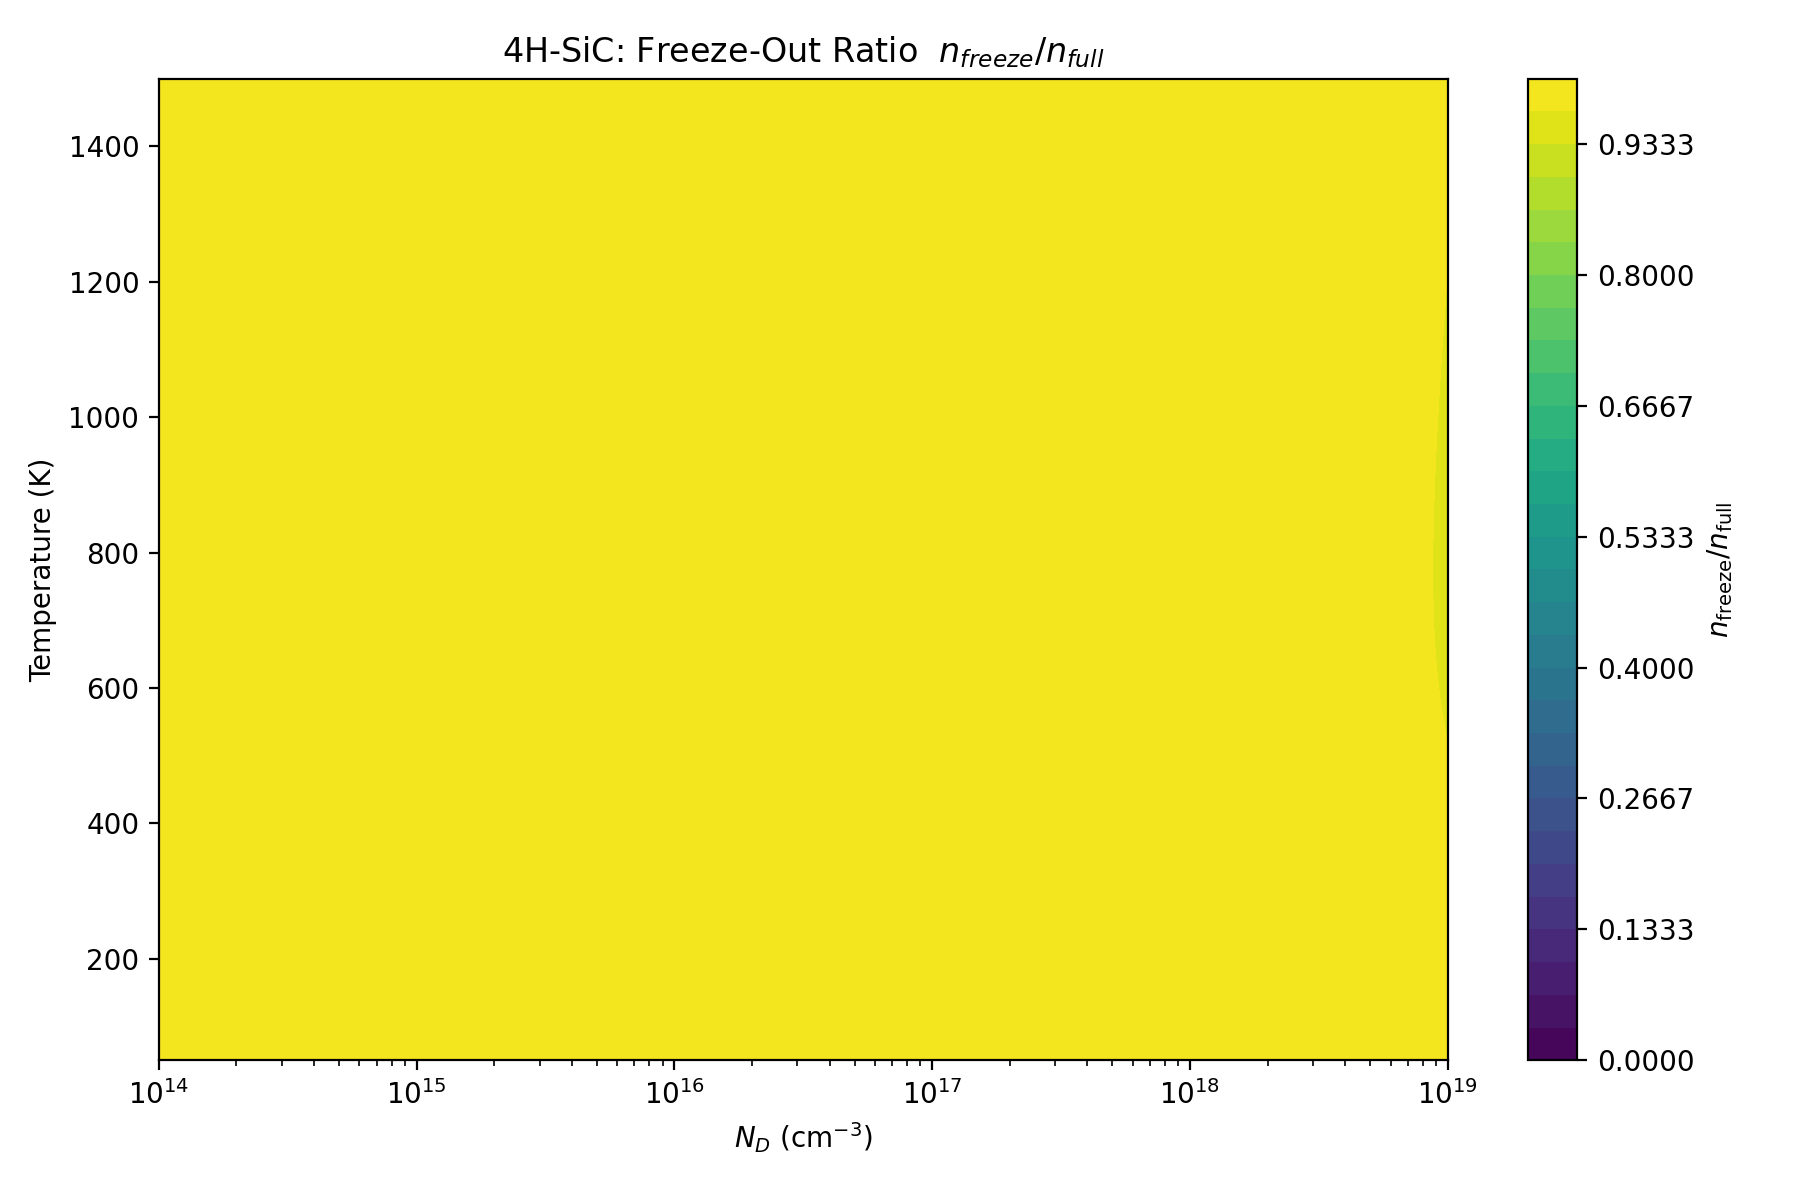
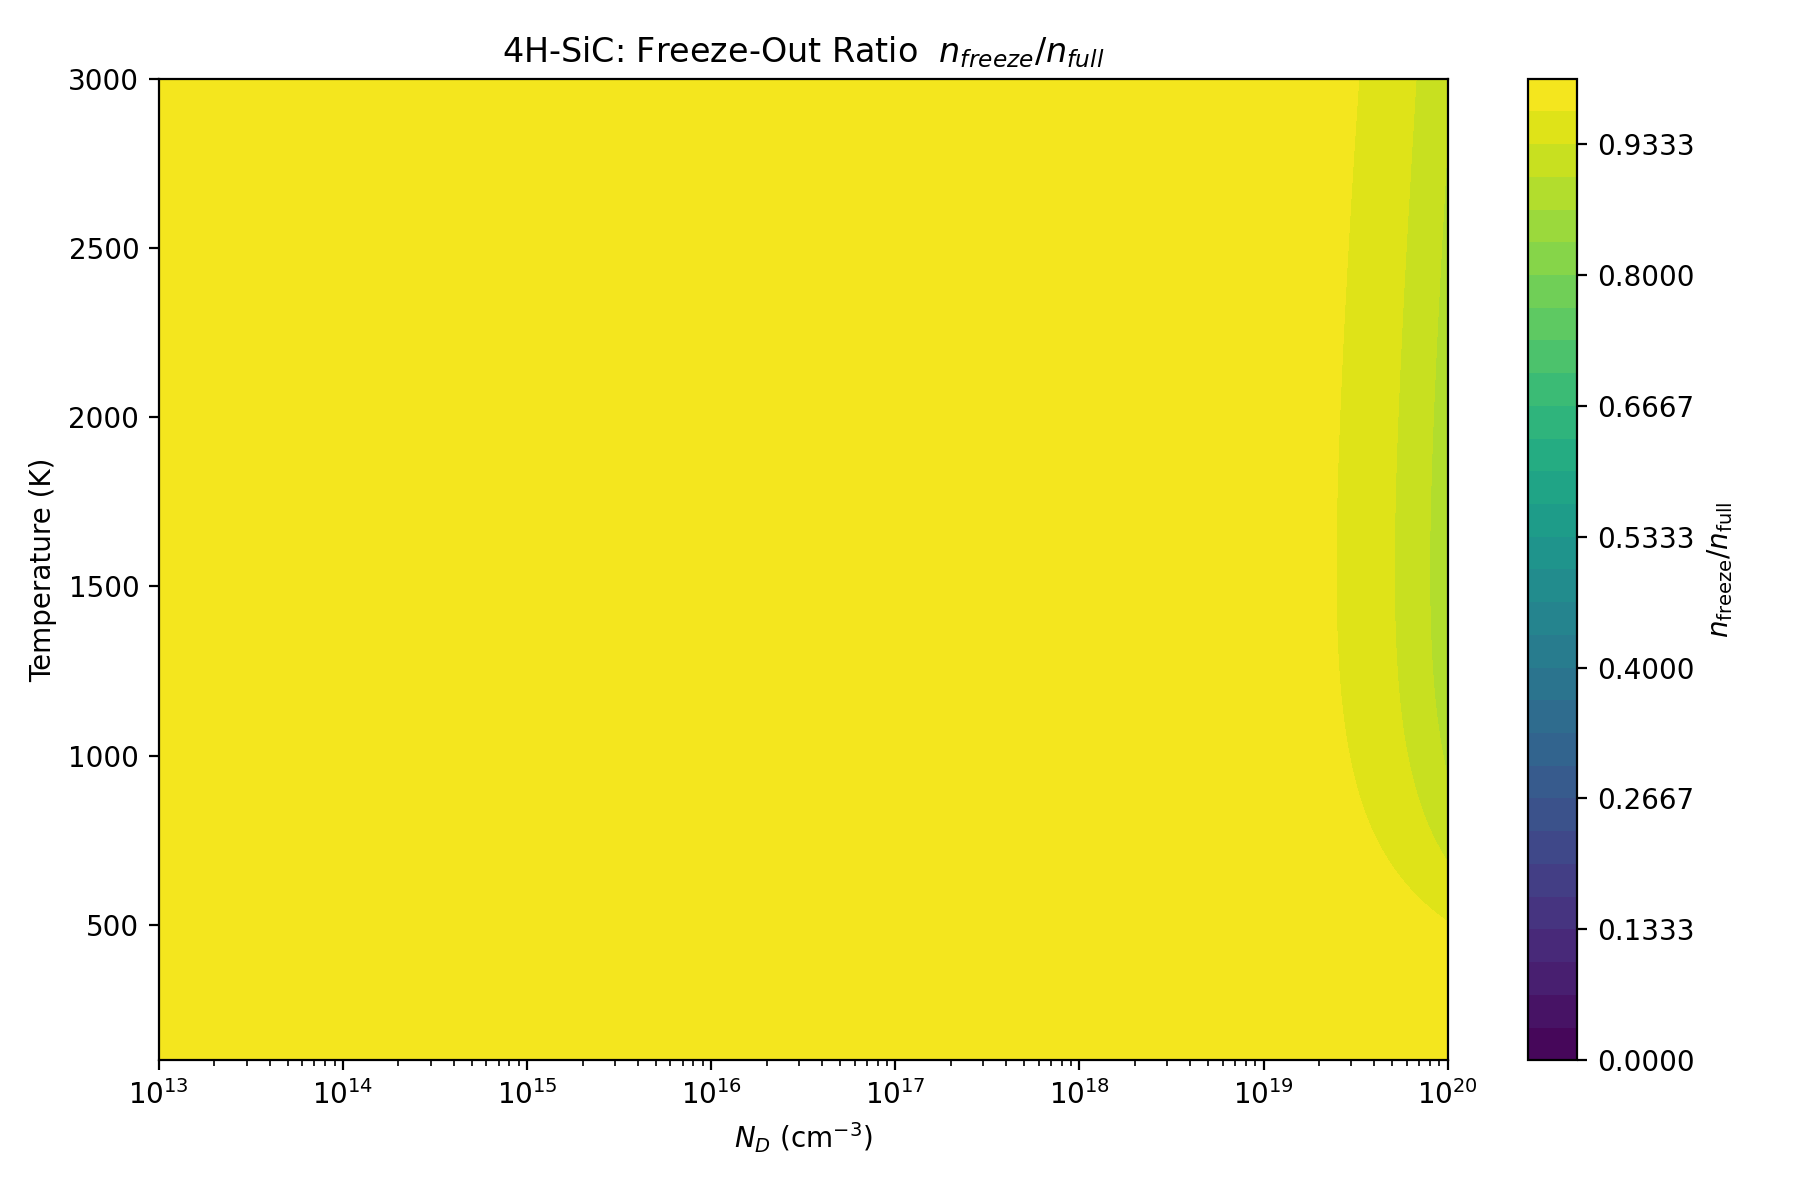
new plots for 1st order extra credit part one

diff --git a/First_Order_ExtraCredit_One.py b/First_Order_ExtraCredit_One.py
@@ -12,12 +12,13 @@ from First_Order import (
 # Shallow-donor / shallow-acceptor energies for each material (in eV)
 # Adjust these if your instructor gives more specific values.
 E_D_Si   = 0.045   # P in Si ~ 45 meV
-E_D_SiC  = 0.100   # rough shallow donor in 4H-SiC (example)
+E_D_SiC  = 0.200   # rough shallow donor in 4H-SiC (example)
 E_D_InAs = 0.006   # very shallow donor in InAs (example)
+
 
 E_A_Si   = 0.045   # shallow B in Si (example)
 E_A_SiC  = 0.200   # rough acceptor in 4H-SiC (example)
-E_A_InAs = 0.025   # example shallow acceptor in InAs
+E_A_InAs = 0.03   # example shallow acceptor in InAs
 
 # degeneracy factors (typical values)
 gD = 0.5
@@ -191,10 +192,11 @@ def plot_freezeout_ratio_map(mat,
 
 if __name__ == "__main__":
     # Common ND axis
-    ND_vals = np.logspace(14, 19, 121)
+    T_axis = np.linspace(100, 3000, 300) 
+    ND_vals = np.logspace(13, 20, 60)
 
     # Condition A: Silicon (similar window to your 1st-order Si plots, but extend down to low T)
-    T_vals_Si = np.linspace(50, 900, 181)
+    T_vals_Si = T_axis
     plot_freezeout_ratio_map(Si,
                              ND_vals=ND_vals,
                              T_vals=T_vals_Si,
@@ -203,7 +205,7 @@ if __name__ == "__main__":
                              fname="fig_Si_freezeout_ratio.png")
 
     # Condition B: 4H-SiC (higher max temp, but we still care about low-T freeze-out)
-    T_vals_SiC = np.linspace(50, 1500, 241)
+    T_vals_SiC = T_axis
     plot_freezeout_ratio_map(SiC,
                              ND_vals=ND_vals,
                              T_vals=T_vals_SiC,
@@ -212,7 +214,7 @@ if __name__ == "__main__":
                              fname="fig_SiC_freezeout_ratio.png")
 
     # Condition C: InAs (lower max temp)
-    T_vals_InAs = np.linspace(50, 700, 161)
+    T_vals_InAs = T_axis
     plot_freezeout_ratio_map(InAs,
                              ND_vals=ND_vals,
                              T_vals=T_vals_InAs,
